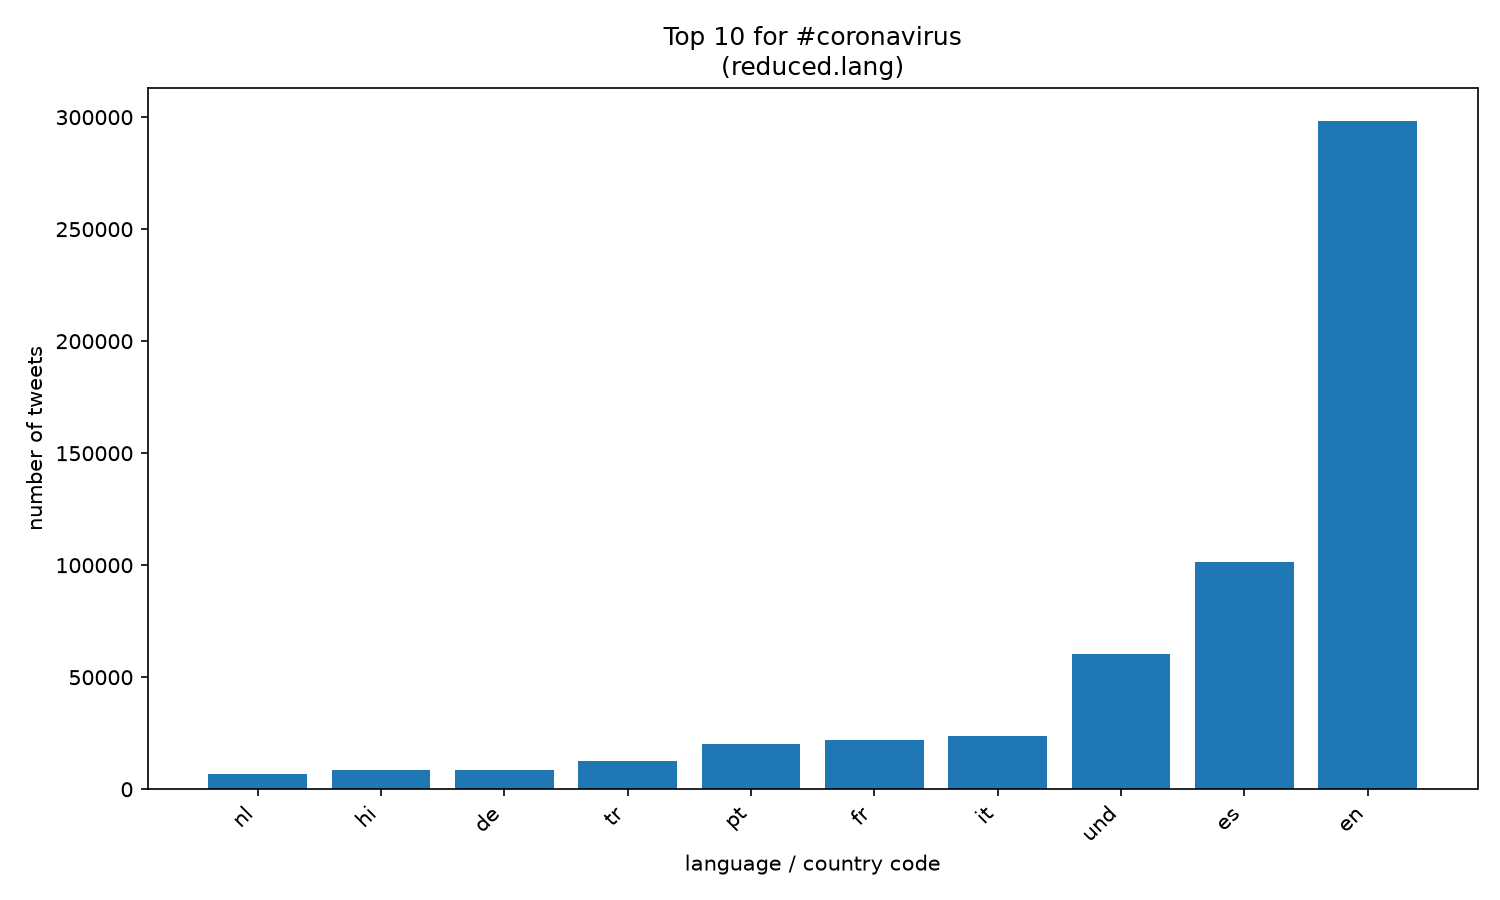
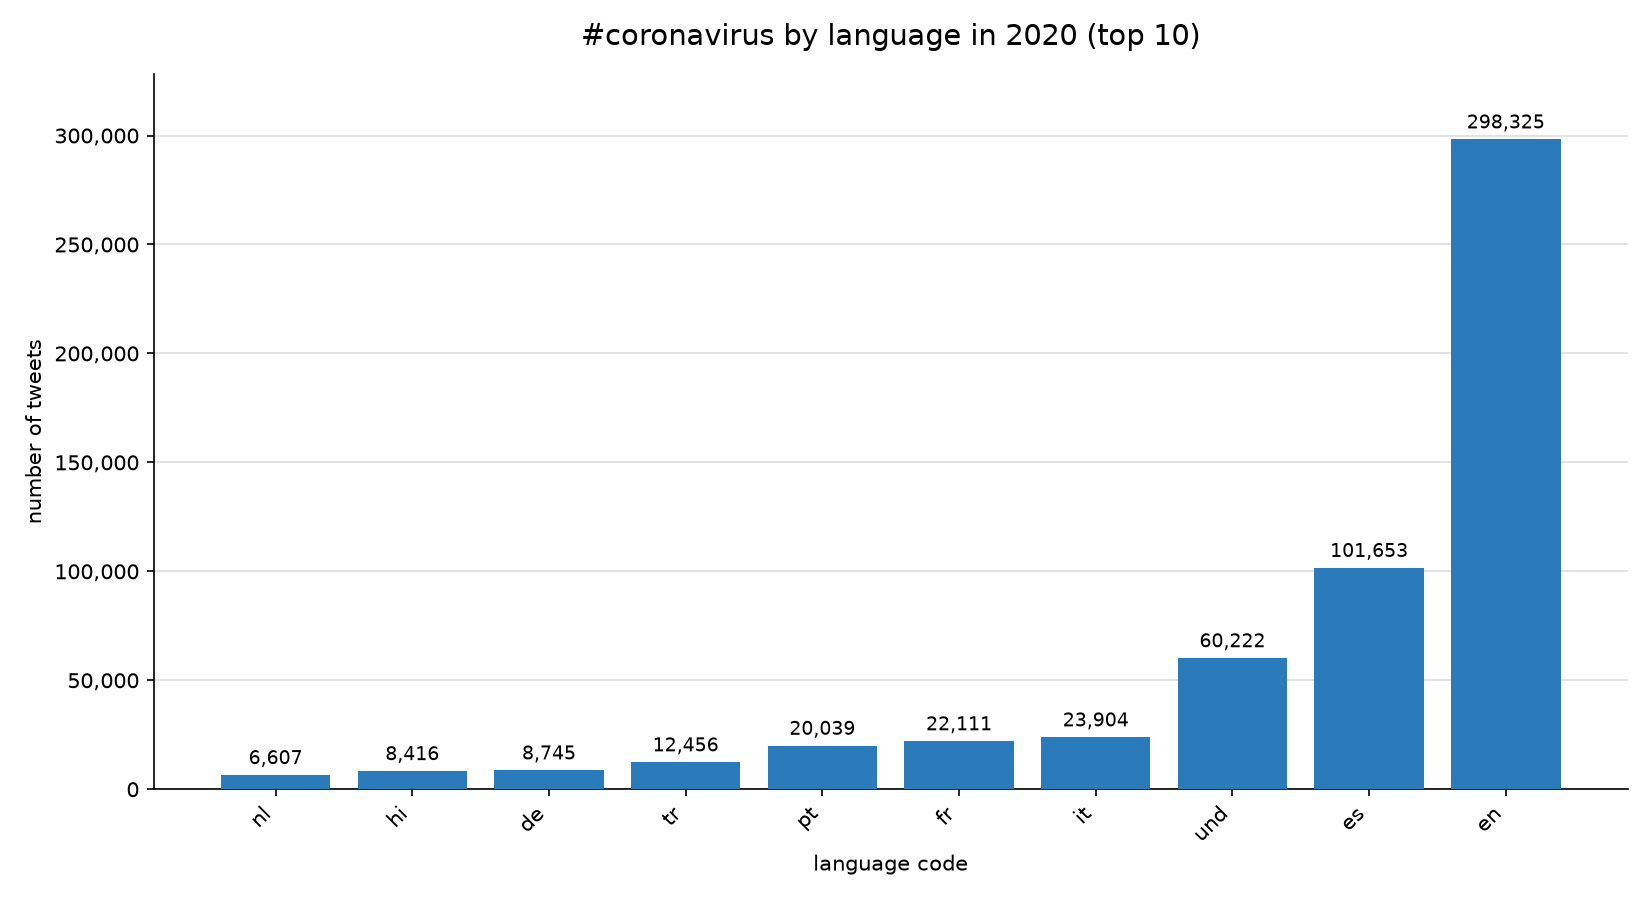
Add new visualizations for coronavirus data

diff --git a/src/visualize.py b/src/visualize.py
@@ -5,8 +5,9 @@ Visualize phase.
 Loads a reduced .lang or .country file, selects the counts for a single
 hashtag (--key), and saves a bar graph of the top 10 keys as a png.
 
-    python3 src/visualize.py --input_path reduced.country --key '#coronavirus'
-    python3 src/visualize.py --input_path reduced.lang    --key '#코로나바이러스'
+    python3 src/visualize.py --input_path reduced/reduced.country --key '#coronavirus'
+    python3 src/visualize.py --input_path reduced/reduced.lang    --key '#코로나바이러스' \
+                             --output_path plots/korean_coronavirus_by_language.png
 
 The x-axis is the keys (language or country codes) and the y-axis is the
 number of tweets.  Bars are sorted from low to high and only the top 10 are
@@ -21,6 +22,7 @@ parser.add_argument('--key', required=True, help='the hashtag to plot, e.g. "#co
 parser.add_argument('--output_path', default=None, help='png path (default: derived from input + key)')
 parser.add_argument('--title', default=None,
                     help='override the plot title (useful if no CJK font is installed)')
+parser.add_argument('--top', type=int, default=10, help='how many keys to show')
 args = parser.parse_args()
 
 # imports
@@ -33,6 +35,7 @@ import matplotlib
 matplotlib.use('Agg')  # headless backend: no display needed on the server
 import matplotlib.pyplot as plt
 from matplotlib import font_manager
+from matplotlib.ticker import FuncFormatter
 
 
 def font_supporting(text):
@@ -75,6 +78,7 @@ def font_supporting(text):
             return entry.name
     return None
 
+
 # load the reduced data
 with open(args.input_path, 'r', encoding='utf-8') as f:
     counts = json.load(f)
@@ -83,21 +87,24 @@ if args.key not in counts:
     raise SystemExit(f'key {args.key!r} not found in {args.input_path}; '
                      f'available keys: {list(counts.keys())}')
 
-# grab the top 10 keys for this hashtag, then order them low -> high for the plot
+# grab the top N keys for this hashtag, then order them low -> high for the plot
 counter = Counter(counts[args.key])
-top10 = counter.most_common(10)          # highest first
-top10 = list(reversed(top10))            # now lowest first (low -> high)
+top = counter.most_common(args.top)      # highest first
+top = list(reversed(top))                # now lowest first (low -> high)
 
-labels = [k for k, v in top10]
-values = [v for k, v in top10]
+labels = [k for k, v in top]
+values = [v for k, v in top]
+
+# is this the language file or the country file?  used for titles/labels
+dimension = 'language' if args.input_path.endswith('.lang') else 'country'
 
 # build the title, then make sure a font exists that can actually draw it
-title = args.title or (f'Top {len(labels)} for {args.key}\n'
-                       f'({os.path.basename(args.input_path)})')
+title = args.title or f'{args.key} by {dimension} in 2020 (top {len(labels)})'
 
 chosen = font_supporting(title)
 if chosen:
-    plt.rcParams['font.family'] = chosen
+    # keep DejaVu Sans for Latin text/numbers; only the CJK font is a fallback
+    plt.rcParams['font.family'] = ['DejaVu Sans', chosen]
 elif any(ord(ch) > 0x024F for ch in title):
     # No installed font covers these characters; they would silently render
     # as empty boxes.  Say so clearly and fall back to an ASCII title.
@@ -105,18 +112,36 @@ elif any(ord(ch) > 0x024F for ch in title):
     print(f'WARNING: no installed font can render {args.key!r}; the title '
           f'would appear as empty boxes.\n'
           f'         Install a CJK font, or rerun with '
-          f'--title "Top 10 for {ascii_key}".', file=sys.stderr)
-    title = (f'Top {len(labels)} for {ascii_key}\n'
-             f'({os.path.basename(args.input_path)})')
+          f'--title "{ascii_key} by {dimension}".', file=sys.stderr)
+    title = f'{ascii_key} by {dimension} in 2020 (top {len(labels)})'
 
 # build the bar graph
-plt.figure(figsize=(10, 6))
-plt.bar(range(len(values)), values, color='#1f77b4')
-plt.xticks(range(len(labels)), labels, rotation=45, ha='right')
-plt.ylabel('number of tweets')
-plt.xlabel('language / country code')
-plt.title(title)
-plt.tight_layout()
+fig, ax = plt.subplots(figsize=(11, 6))
+bars = ax.bar(range(len(values)), values, color='#2b7bba', zorder=3)
+
+ax.set_xticks(range(len(labels)))
+ax.set_xticklabels(labels, rotation=45, ha='right')
+ax.set_xlabel(f'{dimension} code')
+ax.set_ylabel('number of tweets')
+ax.set_title(title, fontsize=14, pad=14)
+
+# thousands separators, light horizontal grid, no top/right box lines
+ax.yaxis.set_major_formatter(FuncFormatter(lambda x, _: f'{int(x):,}'))
+ax.grid(axis='y', color='#dddddd', zorder=0)
+ax.set_axisbelow(True)
+for side in ('top', 'right'):
+    ax.spines[side].set_visible(False)
+
+# exact count printed above each bar
+for bar, v in zip(bars, values):
+    ax.annotate(f'{v:,}',
+                xy=(bar.get_x() + bar.get_width() / 2, v),
+                xytext=(0, 3), textcoords='offset points',
+                ha='center', va='bottom', fontsize=9)
+if values:
+    ax.set_ylim(0, max(values) * 1.10)   # leave room for the labels
+
+fig.tight_layout()
 
 # decide where to save
 if args.output_path:
@@ -125,5 +150,6 @@ else:
     safe_key = args.key.replace('#', '').replace('/', '_')
     output_path = f'{args.input_path}.{safe_key}.png'
 
-plt.savefig(output_path, dpi=150)
+os.makedirs(os.path.dirname(output_path) or '.', exist_ok=True)
+fig.savefig(output_path, dpi=150)
 print('wrote', output_path)
